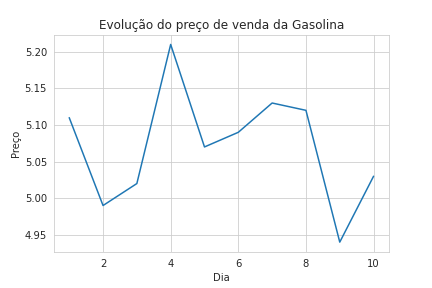
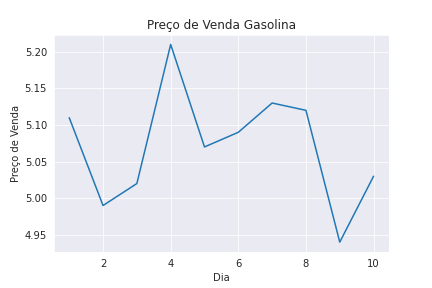
atualizado arquivos .py e .png do gráfico

diff --git a/gasolina.py b/gasolina.py
@@ -20,9 +20,9 @@ gasolina_df = pd.read_csv('/content/da-ebac/gasolina.csv', sep=',')
 
 gasolina_df.head()
 
-with sns.axes_style('whitegrid'):
-  grafico = sns.lineplot(x='dia', y='venda', data=gasolina_df)
-  grafico.set(title='Evolução do preço de venda da Gasolina', xlabel='Dia', ylabel='Preço')
+with sns.axes_style('darkgrid'):
+  grafico = sns.lineplot(x='dia', y='venda', data=gasolina_df, palette='pastel')
+  grafico.set(title='Preço de Venda Gasolina', xlabel='Dia', ylabel='Preço de Venda')
 
 fig = grafico.get_figure()
 
